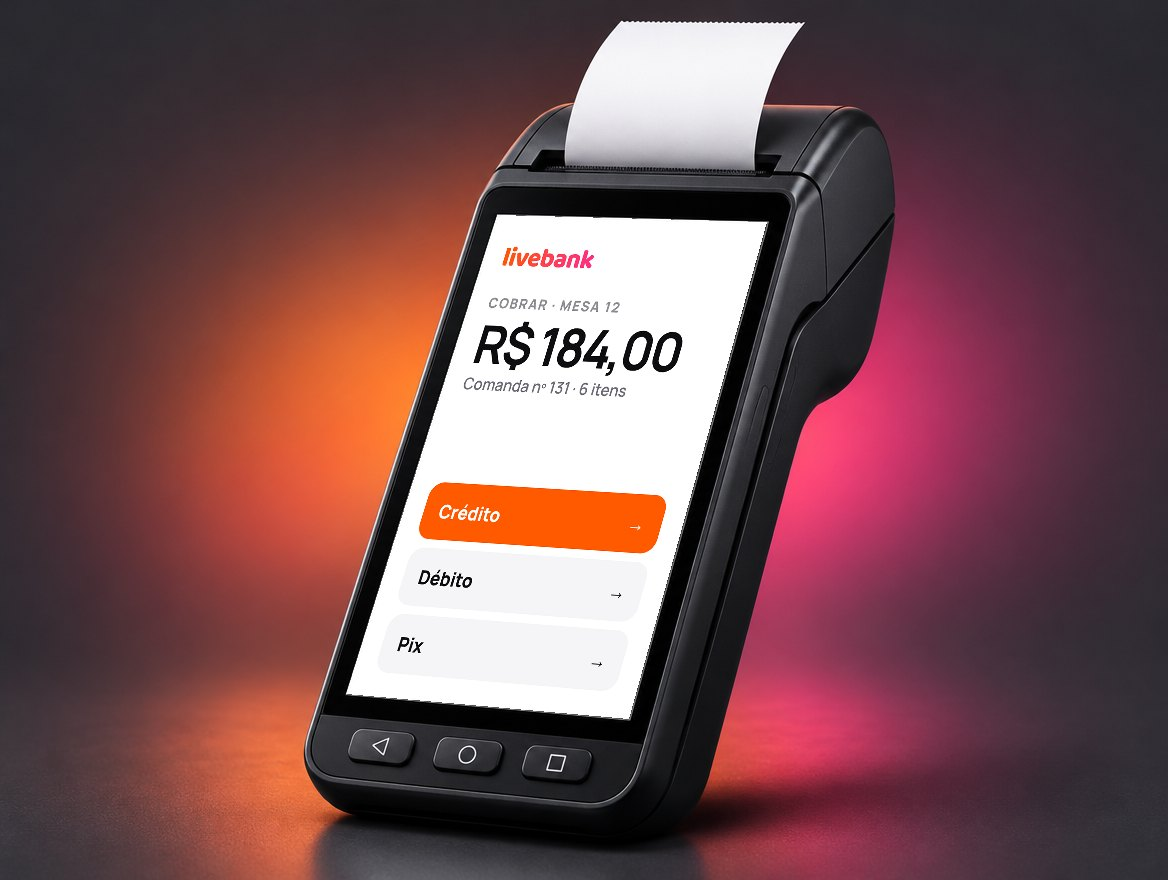
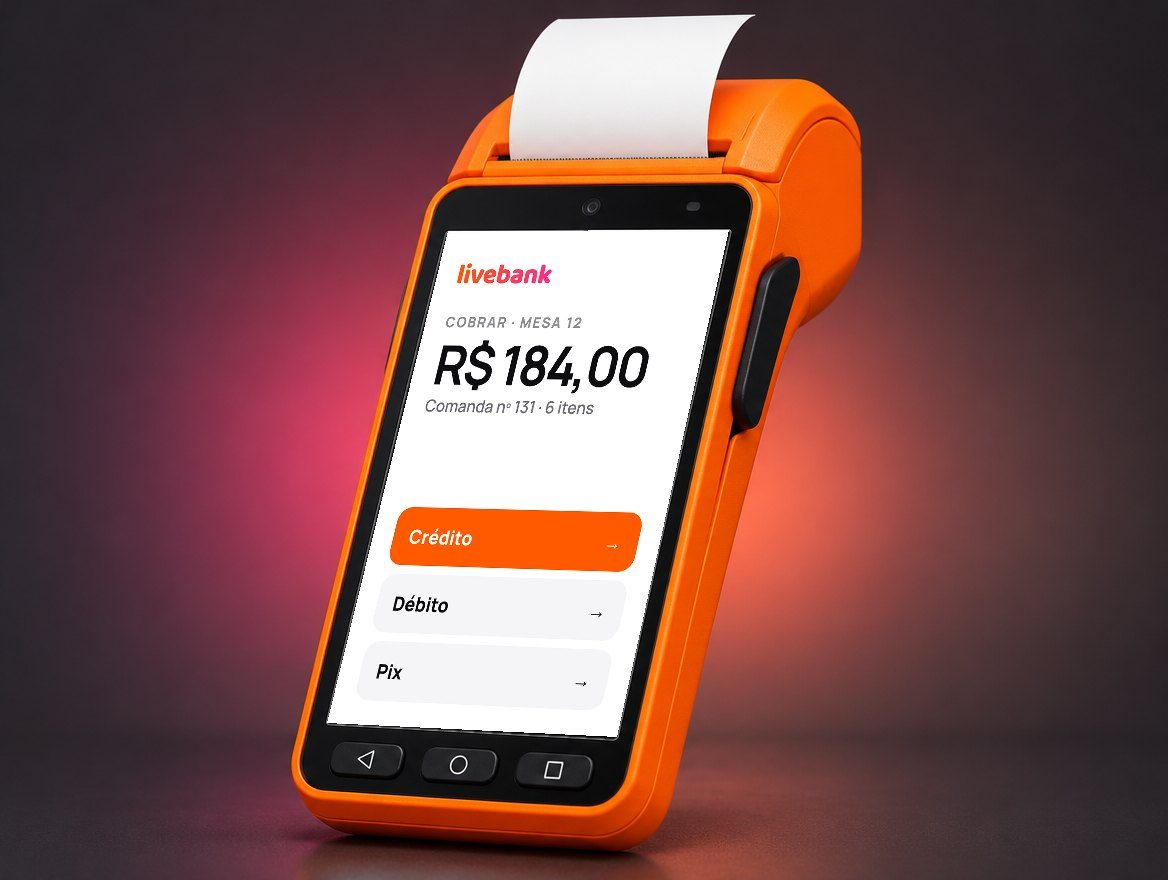
Site: cartao LiveBank em pe girando e maquininha laranja

diff --git a/site/css/home.css b/site/css/home.css
@@ -236,16 +236,16 @@ h1, h2, h3, p { margin: 0; }
 .cartao.degrade .tit { color: rgba(255, 255, 255, .8); }
 
 /* maquininha LiveBank */
-.maq { container-type: inline-size; position: relative; aspect-ratio: 1 / 1.86; border-radius: 16% / 8.6%; background: linear-gradient(160deg, #2C2C33, #0D0D10); padding: 7% 7% 0; box-shadow: inset 0 0 0 1px rgba(255, 255, 255, .08), 0 40px 70px -34px rgba(0, 0, 0, .8); display: flex; flex-direction: column; }
+.maq { container-type: inline-size; position: relative; aspect-ratio: 1 / 1.86; border-radius: 16% / 8.6%; background: linear-gradient(160deg, #FF7A2E, #FF5A00 55%, #E24A00); padding: 7% 7% 0; box-shadow: inset 0 0 0 1px rgba(255, 255, 255, .08), 0 40px 70px -34px rgba(0, 0, 0, .8); display: flex; flex-direction: column; }
 .maq-tela { height: 54%; border-radius: 9% / 8%; background: #fff; display: flex; flex-direction: column; align-items: center; justify-content: center; gap: 2.5cqw; text-align: center; color: var(--tinta); }
 .maq-tela i { width: 22cqw; aspect-ratio: 1; border-radius: 50%; background: #16A34A; color: #fff; font-style: normal; font-weight: 800; font-size: 12cqw; display: grid; place-items: center; }
 .maq-tela b { font-size: 12.5cqw; letter-spacing: -.03em; line-height: 1; margin-top: 2cqw; }
 .maq-tela small { font-size: 5.6cqw; font-weight: 800; letter-spacing: .12em; color: #16A34A; }
 .maq-tela span { font-size: 5.4cqw; font-weight: 600; color: var(--mudo-2); }
 .maq-teclas { display: grid; grid-template-columns: repeat(3, 1fr); gap: 4cqw; margin-top: 8cqw; }
-.maq-teclas i { height: 7cqw; border-radius: 2.4cqw; background: #34343C; }
+.maq-teclas i { height: 7cqw; border-radius: 2.4cqw; background: rgba(0, 0, 0, .28); }
 .maq-teclas i:nth-child(7) { background: #DC2626; } .maq-teclas i:nth-child(9) { background: #16A34A; }
-.maq em { margin: auto 0 6cqw; text-align: center; font-style: normal; font-size: 9.5cqw; }
+.maq em { margin: auto 0 6cqw; text-align: center; font-style: normal; font-size: 9.5cqw; color: #fff; } .maq em .grad-t { background: none; color: #fff; }
 /* Live */
 .live-mascote { position: relative; width: 100%; aspect-ratio: 220 / 230; }
 .live-corpo { position: absolute; inset: 0; transform-origin: 50% 46%; will-change: transform; }
@@ -478,13 +478,35 @@ a.foto-bloco:hover, button.foto-bloco:hover { transform: translateY(-6px); box-s
 
 /* LiveBank em blocos */
 .lb-grade { display: grid; grid-template-columns: repeat(12, 1fr); gap: 20px; }
-.lb-a { grid-column: span 7; } .lb-b { grid-column: span 5; } .lb-c, .lb-d, .lb-e { grid-column: span 4; }
-.lb-c { min-height: 380px; background-position: 60% 40%; } .lb-c .fb-tit { font-size: clamp(26px, 2.6vw, 36px); }
-.bloco-cartao { position: relative; border-radius: var(--raio-g); background: #09090B; overflow: hidden; display: grid; place-items: center; min-height: 520px; perspective: 1500px; isolation: isolate; color: #fff; }
-.bloco-cartao::before { content: ''; position: absolute; width: 110%; aspect-ratio: 1; border-radius: 50%; background: radial-gradient(circle, rgba(255, 61, 94, .42), rgba(255, 90, 0, .12) 46%, transparent 68%); filter: blur(8px); z-index: -1; animation: respira 7s ease-in-out infinite alternate; }
-.bc-tit { position: absolute; left: clamp(24px, 3vw, 40px); top: clamp(22px, 2.6vw, 36px); font-size: clamp(24px, 2.4vw, 34px); letter-spacing: -.035em; font-weight: 800; }
-.bloco-cartao .gira { width: min(74%, 380px); margin: 0; }
-.bloco-cartao .troca { top: auto; right: auto; bottom: clamp(22px, 2.6vw, 34px); left: 50%; transform: translateX(-50%); }
+.lb-b { grid-column: span 12; } .lb-a { grid-column: span 7; } .lb-c { grid-column: span 5; } .lb-d, .lb-e { grid-column: span 6; }
+.lb-c .fb-tit { font-size: clamp(28px, 3vw, 42px); } .lb-c { background-position: 50% 30%; }
+/* cartão em pé, girando devagar, com a borda iluminada */
+.bloco-cartao { position: relative; border-radius: var(--raio-g); overflow: hidden; display: flex; flex-direction: column; align-items: center; min-height: clamp(760px, 62vw, 900px); padding: clamp(40px, 5vw, 72px) 24px clamp(32px, 4vw, 56px); color: #fff; isolation: isolate; text-align: center;
+  background: radial-gradient(70% 34% at 50% 100%, rgba(255, 61, 94, .34), transparent 70%), radial-gradient(50% 22% at 50% 74%, rgba(255, 90, 0, .16), transparent 70%), linear-gradient(180deg, #0C0C10 0%, #14141B 62%, #1B1B26 100%); }
+.bc-tit { font-size: clamp(34px, 4.6vw, 64px); line-height: 1.02; letter-spacing: -.045em; font-weight: 800; }
+.bloco-cartao .gira { flex: 1; width: 100%; display: grid; place-items: center; perspective: 1400px; min-height: 420px; margin: 0; }
+.cv { position: relative; width: clamp(190px, 21vw, 270px); aspect-ratio: 1 / 1.586; transform-style: preserve-3d; will-change: transform; transform: rotateX(12deg) rotateY(-26deg) rotateZ(14deg); }
+.cv-face, .cv .esp { position: absolute; inset: 0; border-radius: 9.5% / 6%; }
+.cv .esp { background: linear-gradient(160deg, #FFB000, #FF5A00 30%, #FF3D5E 62%, #FF2D87); transform: translateZ(var(--z)); }
+.cv-face { -webkit-backface-visibility: hidden; backface-visibility: hidden; overflow: hidden; container-type: inline-size; color: #B9B9C6;
+  background: linear-gradient(150deg, #2B2B36 0%, #17171D 42%, #0E0E12 100%); box-shadow: inset 0 0 0 1px rgba(255, 255, 255, .07); }
+.cv-frente { transform: translateZ(4px); } .cv-verso { transform: rotateY(180deg) translateZ(4px); }
+.cv-face::before { content: ''; position: absolute; inset: 0; background: radial-gradient(90% 60% at 20% 0%, rgba(255, 255, 255, .13), transparent 60%); }
+.cv-face::after { content: ''; position: absolute; inset: -30% -80%; background: linear-gradient(100deg, transparent 43%, rgba(255, 255, 255, .22) 50%, transparent 57%); transform: translateX(var(--brilho, -30%)); pointer-events: none; }
+.cv-chip { position: absolute; left: 50%; top: 12%; width: 18%; aspect-ratio: 1 / 1.22; margin-left: -9%; border-radius: 16%; background: linear-gradient(135deg, #F4F4F6, #A9A9B4 55%, #E6E6EC); box-shadow: inset 0 0 0 1px rgba(0, 0, 0, .25); }
+.cv-chip::before { content: ''; position: absolute; inset: 18% 16%; border: 1px solid rgba(0, 0, 0, .3); border-radius: 12%; }
+.cv-nfc { position: absolute; right: 16%; top: 26%; width: 9%; }
+.cv-live { position: absolute; left: 50%; top: 41%; width: 46%; margin-left: -23%; color: #A7A7B6; }
+.cv-marca { position: absolute; left: 9%; bottom: 7%; font-size: 15cqw; }
+.cv-visa { position: absolute; right: 9%; bottom: 7.4%; width: 27%; opacity: .85; }
+.cv-tarja { position: absolute; left: 0; right: 0; top: 9%; height: 13%; background: #000; }
+.cv-ass { position: absolute; left: 9%; right: 9%; top: 28%; height: 9%; border-radius: 6px; background: repeating-linear-gradient(90deg, #F4F4F6 0 8px, #E4E4E9 8px 16px); }
+.cv.degrade .cv-face { background: linear-gradient(160deg, #FF5A00 0%, #FF3D5E 58%, #FF2D87 100%); color: #fff; }
+.cv.degrade .cv-live { color: #fff; } .cv.degrade .cv-marca .grad-t { background: none; color: #fff; }
+.cv.degrade .esp { background: linear-gradient(160deg, #fff, #FFD2C2); }
+.bc-pe { display: grid; justify-items: center; gap: 18px; }
+.bc-pe p { font-size: clamp(20px, 2.4vw, 32px); line-height: 1.1; letter-spacing: -.035em; font-weight: 800; color: #A9A9C2; }
+.bloco-cartao .troca { position: static; transform: none; }
 .bloco-num { border-radius: var(--raio-g); background: var(--suave); padding: clamp(24px, 3vw, 40px); display: flex; flex-direction: column; min-height: 380px; }
 .bn-tit { font-size: clamp(26px, 2.6vw, 36px); line-height: 1.04; letter-spacing: -.04em; font-weight: 800; max-width: 8em; }
 .bloco-num dl { margin: auto 0 0; display: grid; }
@@ -609,7 +631,7 @@ a.foto-bloco:hover, button.foto-bloco:hover { transform: translateY(-6px); box-s
   .palco { height: clamp(380px, 64vw, 600px); margin-top: 20px; }
   .produto .caixa { grid-template-columns: 1fr; }
   .duo { grid-template-columns: 1fr; }
-  .lb-a, .lb-b { grid-column: span 12; } .lb-c { grid-column: span 12; } .lb-d, .lb-e { grid-column: span 6; }
+  .lb-a, .lb-b, .lb-c { grid-column: span 12; } .lb-c { min-height: 420px; }
   .produto.inv .prod-texto { order: 0; }
   .cena { min-height: clamp(400px, 70vw, 600px); }
   .p-food { grid-column: span 12; grid-row: auto; min-height: 640px; }
@@ -656,8 +678,8 @@ a.foto-bloco:hover, button.foto-bloco:hover { transform: translateY(-6px); box-s
   .cena-fest .ingresso { width: 62%; margin-right: 20%; margin-bottom: 14%; } .rosto { width: 38%; right: 4%; bottom: 5%; }
   .p-bank .arte .maq { display: none; } .extrato div { padding: 11px 12px; }
   .duas { grid-template-columns: 1fr; gap: 0; }
-  .foto-bloco { min-height: 540px; } .lb-c { min-height: 340px; } .lb-d, .lb-e { grid-column: span 12; min-height: 300px; } .lb-grade, .duo { gap: 14px; }
-  .bloco-cartao { min-height: 440px; } .bloco-abas .cena { min-height: 470px; } .aba { height: 40px; padding: 0 15px; font-size: 14px; }
+  .foto-bloco { min-height: 540px; } .lb-c { min-height: 360px; } .lb-d, .lb-e { grid-column: span 12; min-height: 300px; } .lb-grade, .duo { gap: 14px; }
+  .bloco-cartao { min-height: 700px; } .cv { width: 200px; } .bloco-abas .cena { min-height: 470px; } .aba { height: 40px; padding: 0 15px; font-size: 14px; }
   .rodape-in { grid-template-columns: 1fr 1fr; } .rodape-in > div { grid-column: 1 / -1; }
 }
 

diff --git a/index.html b/index.html
@@ -22,7 +22,7 @@
 <link rel="preconnect" href="https://fonts.gstatic.com" crossorigin>
 <link rel="preconnect" href="https://giro-os-api.nucleofull.workers.dev" crossorigin>
 <link href="https://fonts.googleapis.com/css2?family=Baloo+2:wght@800&family=Manrope:wght@500;600;700;800&display=swap" rel="stylesheet">
-<link rel="stylesheet" href="site/css/home.css?v=4">
+<link rel="stylesheet" href="site/css/home.css?v=5">
 <script type="application/ld+json">
 {"@context":"https://schema.org","@type":"Organization","name":"LiveFood","url":"https://livefood.tec.br/","logo":"https://livefood.tec.br/site/img/livefood-logo.png"}
 </script>
@@ -271,25 +271,33 @@
         <h2 class="t2" data-revela>A operadora de pagamentos do seu negócio.</h2>
       </div>
       <div class="lb-grade">
+        <div class="bloco-cartao lb-b" id="cena-bank" data-revela="escala">
+          <p class="bc-tit">Cartão LiveBank</p>
+          <div class="gira" id="gira" aria-hidden="true"><div class="cv" id="cartao-bank">
+            <i class="esp" style="--z:-3px"></i><i class="esp" style="--z:-2px"></i><i class="esp" style="--z:-1px"></i><i class="esp" style="--z:0px"></i><i class="esp" style="--z:1px"></i><i class="esp" style="--z:2px"></i><i class="esp" style="--z:3px"></i>
+            <div class="cv-face cv-frente"><span class="cv-chip"></span><svg class="cv-nfc" viewBox="0 0 24 24" fill="none" stroke="currentColor" stroke-width="2" stroke-linecap="round" aria-hidden="true"><path d="M6 8a6 6 0 0 1 0 8M10 5.5a10 10 0 0 1 0 13M14 3a14 14 0 0 1 0 18"/></svg><svg class="cv-live" viewBox="0 0 120 110" fill="none" stroke="currentColor" stroke-width="3.2" stroke-linecap="round" stroke-linejoin="round" aria-hidden="true"><path d="M46 18 36 4M74 18 84 4"/><rect x="12" y="18" width="96" height="78" rx="20"/><rect x="26" y="32" width="68" height="50" rx="11"/><path d="M45 52v6M75 52v6M50 68c6 5 14 5 20 0"/></svg><span class="cv-marca marca-t"><span class="grad-t">livebank</span></span><img class="cv-visa" src="site/img/bandeiras/visa-branca.svg" alt="Visa" width="76" height="24"></div>
+            <div class="cv-face cv-verso"><span class="cv-tarja"></span><span class="cv-ass"></span><span class="cv-marca marca-t"><span class="grad-t">livebank</span></span></div>
+          </div></div>
+          <div class="bc-pe">
+            <p>Black ou degradê. Você escolhe.</p>
+            <div class="troca" role="group" aria-label="Cor do cartão"><button type="button" class="on" data-cor="black">Black</button><button type="button" data-cor="degrade">Degradê</button></div>
+            <button class="btn btn-branco" type="button" data-abrir-contato>Quero o LiveBank <span class="seta" aria-hidden="true">→</span></button>
+          </div>
+        </div>
         <button type="button" class="foto-bloco lb-a" data-abrir-contato data-revela="escala" style="background-image:url(site/img/fotos/maq-mao.jpg)">
           <span class="fb-olho">Maquininha LiveBank</span>
           <span class="fb-tit">Receba na hora, direto da comanda</span>
-          <span class="btn btn-branco">Quero o LiveBank <span class="seta" aria-hidden="true">→</span></span>
+          <span class="btn btn-branco">Quero a maquininha <span class="seta" aria-hidden="true">→</span></span>
         </button>
-        <div class="bloco-cartao lb-b" id="cena-bank" data-revela="escala" style="--atraso:.08s">
-          <p class="bc-tit">Cartão LiveBank</p>
-          <div class="gira" id="gira" aria-hidden="true"><div class="cartao" id="cartao-bank"><div class="face"><span class="cm"><span class="grad-t">livebank</span></span><span class="chipc"></span><svg class="nfc" viewBox="0 0 24 24" fill="none" stroke="#fff" stroke-width="2" stroke-linecap="round" aria-hidden="true"><path d="M6 8a6 6 0 0 1 0 8M10 5.5a10 10 0 0 1 0 13M14 3a14 14 0 0 1 0 18"/></svg><span class="num">5412 •••• •••• 4821</span><span class="tit">SEU NEGÓCIO</span><img class="visa" src="site/img/bandeiras/visa-branca.svg" alt="Visa" width="76" height="24"><span class="fio"></span></div><div class="face verso"><span class="tarja"></span><span class="ass"></span><span class="cvv">•••</span><span class="cm"><span class="grad-t">livebank</span></span></div></div></div>
-          <div class="troca" role="group" aria-label="Cor do cartão"><button type="button" class="on" data-cor="black">Black</button><button type="button" data-cor="degrade">Degradê</button></div>
-        </div>
-        <div class="foto-bloco lb-c" data-revela="escala" style="background-image:url(site/img/fotos/maq-estudio.jpg)">
+        <div class="foto-bloco lb-c" data-revela="escala" style="--atraso:.08s;background-image:url(site/img/fotos/maq-estudio.jpg)">
           <span class="fb-olho">Tudo em uma máquina</span>
           <span class="fb-tit">Pix, crédito e débito</span>
         </div>
-        <div class="bloco-num lb-d" data-revela="escala" style="--atraso:.08s">
+        <div class="bloco-num lb-d" data-revela="escala">
           <p class="bn-tit">As melhores taxas</p>
           <dl><div><dt>Bruto</dt><dd data-conta="7491.70" data-pre="R$ " data-casas="2">R$ 7.491,70</dd></div><div class="neg"><dt>Taxas</dt><dd data-conta="162.26" data-pre="− R$ " data-casas="2">− R$ 162,26</dd></div><div class="pos"><dt>Líquido</dt><dd data-conta="7329.44" data-pre="R$ " data-casas="2">R$ 7.329,44</dd></div></dl>
         </div>
-        <div class="bloco-num lb-e escuro-b" data-revela="escala" style="--atraso:.16s">
+        <div class="bloco-num lb-e escuro-b" data-revela="escala" style="--atraso:.08s">
           <p class="bn-tit">Split de pagamento</p>
           <div class="split" aria-hidden="true"><i style="--w:70%"></i><i class="b" style="--w:30%"></i></div>
           <div class="split-leg"><span><b>70%</b>Loja</span><span><b>30%</b>Parceiro</span></div>
@@ -376,6 +384,6 @@
 <noscript><style>[data-revela],.capa-texto *,.palco{opacity:1!important;transform:none!important}</style></noscript>
 <script src="site/js/live-mascote.js"></script>
 <script src="site/js/planos.js"></script>
-<script src="site/js/home.js?v=2"></script>
+<script src="site/js/home.js?v=3"></script>
 </body>
 </html>

diff --git a/site/js/home.js b/site/js/home.js
@@ -156,20 +156,25 @@
       const r = manifesto.getBoundingClientRect(), p = limita((h * 0.86 - r.top) / (r.height + h * 0.36), 0, 1), n = Math.round(p * palavras.length);
       palavras.forEach((w, i) => w.classList.toggle('on', i < n));
     }
-    // cartão LiveBank: vira com a rolagem e inclina com o ponteiro
-    if (gira) {
-      const r = cenaBank.getBoundingClientRect();
-      if (r.bottom > 0 && r.top < h) {
-        const p = calmo ? 0.35 : limita((h - r.top) / (h + r.height), 0, 1);
-        cbx += (bx - cbx) * 0.1; cby += (by - cby) * 0.1;
-        const ry = (p - 0.5) * 300 - 14 + cbx * 26, rx = 12 - p * 8 - cby * 18, rz = -7 + p * 9;   /* de frente quando a seção está no meio da tela */
-        gira.style.transform = 'rotateX(' + rx.toFixed(2) + 'deg) rotateY(' + ry.toFixed(2) + 'deg) rotateZ(' + rz.toFixed(2) + 'deg)';
-        gira.style.setProperty('--brilho', (-40 + ((ry % 180) + 180) % 180 / 180 * 80).toFixed(1) + '%');
-        if (Math.abs(bx - cbx) > 0.001 || Math.abs(by - cby) > 0.001) pede();
-      }
-    }
   }
   function pede() { if (!rodando) { rodando = true; requestAnimationFrame(quadro); } }
+
+  // cartão LiveBank: em pé, girando devagar o tempo todo (só enquanto está na tela) e inclinando com o ponteiro
+  if (gira && cartaoBank) {
+    let vendo = false, tAnt = 0, ang = 0;
+    function giraCartao(t) {
+      if (!vendo) return;
+      const dt = Math.min(0.05, (t - (tAnt || t)) / 1000); tAnt = t;
+      ang += dt * 0.55;
+      cbx += (bx - cbx) * 0.08; cby += (by - cby) * 0.08;
+      const s1 = Math.sin(ang), ry = s1 * 42 + (Math.sin(ang * 0.5) > 0.985 ? 0 : 0) + cbx * 40 - 8;
+      const rx = 12 + Math.sin(ang * 0.7) * 5 - cby * 22, rz = 14 + Math.sin(ang * 0.45) * 3, y = Math.sin(ang * 1.3) * 8;
+      cartaoBank.style.transform = 'translate3d(0,' + y.toFixed(1) + 'px,0) rotateX(' + rx.toFixed(2) + 'deg) rotateY(' + ry.toFixed(2) + 'deg) rotateZ(' + rz.toFixed(2) + 'deg)';
+      cartaoBank.style.setProperty('--brilho', (ry * 0.9).toFixed(1) + '%');
+      requestAnimationFrame(giraCartao);
+    }
+    if (!calmo && 'IntersectionObserver' in window) new IntersectionObserver((es) => { const v = es[0].isIntersecting; if (v && !vendo) { vendo = true; tAnt = 0; requestAnimationFrame(giraCartao); } else if (!v) vendo = false; }, { threshold: 0.05 }).observe(cenaBank);
+  }
   addEventListener('scroll', () => { topoRola(); pede(); }, { passive: true });
   addEventListener('resize', pede);
   topoRola(); pede();
